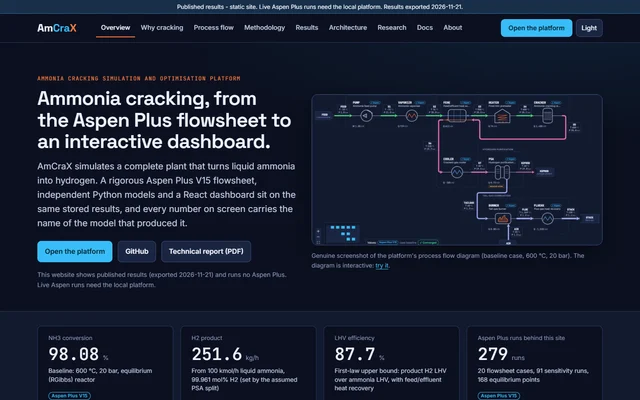
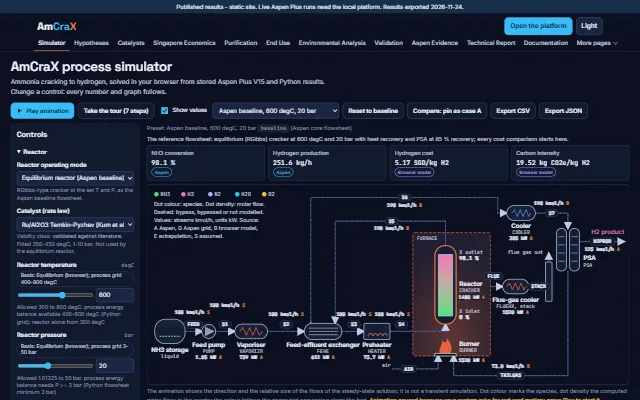
Correct project facts, licences and the AmCraX entry; add Writing to the navigation
README: drop the "Planned project ... No code yet" line for AmCraX, which
contradicted the live AmCraX section above it, and link the Writing section.

NOTICE.md and docs/CREDITS.md: STRATO is AGPL-3.0-only on main; only the
v1.0.0 and v1.0.1 releases were published under MIT. Name AmCraX among the
sources of the project figures, note the Aspen Plus window capture, and
remove the README banner and divider, which no longer exist.

AmCraX card and case study: bring them up to the public state of AmCraX main
at 70993a5 (README and live site). The public site now opens on a browser
process simulator; research costs use the unified reference scenario
(4.015 USD/kg) and 3.92 USD/kg is labelled as the legacy core result. The
four hypothesis verdicts are described only by their rule and pointed to the
evidence matrix, because they are being revised. New card image and figure:
a capture of the live simulator page taken on 24 November 2026.

Navigation: Writing becomes its own section in the top bar and footer. The
research index no longer repeats the notes; it points to Writing and keeps
the technical-notes anchor for old links.

Changed region(s): [[0.0, 0.03, 0.9688, 1.0], [0.2812, 0.0, 0.7188, 0.03]]

diff --git a/src/data/site.ts b/src/data/site.ts
@@ -37,7 +37,7 @@ export const social = {
  * `collection` names the content collection in src/content.config.ts that feeds the section, if any.
  */
 export type Section = {
-  id: 'projects' | 'research' | 'community' | 'innovation' | 'about';
+  id: 'projects' | 'research' | 'writing' | 'community' | 'innovation' | 'about';
   label: string;
   path: string;
   eyebrow: string;
@@ -64,6 +64,15 @@ export const sections: readonly Section[] = [
     title: 'Research and academic work',
     lead: 'Coursework case studies and review essays, presented with their methods, findings and limits.',
     collection: 'research',
+  },
+  {
+    id: 'writing',
+    label: 'Writing',
+    path: 'writing/',
+    eyebrow: 'Technical notes',
+    title: 'Writing',
+    lead: 'Technical notes and computational studies, grouped by topic. Each entry links to the public source it is based on.',
+    collection: null,
   },
   {
     id: 'community',
@@ -338,21 +347,21 @@ export const projects: readonly Project[] = [
     name: 'AmCraX',
     tagline: 'Ammonia cracking simulation and optimisation platform',
     description:
-      'Grows out of my CN5190 Hydrogen Energy and Technology review essay at NUS. Lecturers: Prof Wang Lei and Prof Lum Yanwei. An Aspen Plus V15 flowsheet of an ammonia cracker, driven from Python and checked by independent Python models for equilibrium, heat integration, kinetics and cost. The baseline converts 98.1% of the ammonia and makes 251.6 kg/h of hydrogen. The public site shows the published results and does not run Aspen Plus.',
+      'Grows out of my CN5190 Hydrogen Energy and Technology review essay at NUS. Lecturers: Prof Wang Lei and Prof Lum Yanwei. An Aspen Plus V15 flowsheet of an ammonia cracker, driven from Python and checked by independent Python models for equilibrium, heat integration, kinetics and cost. The baseline converts 98.1% of the ammonia and makes 251.6 kg/h of hydrogen. The public site opens on a process simulator that runs in the browser from the stored results and labels every value with its source. It does not run Aspen Plus.',
     status: 'Live site',
     stage: 'live',
     tech: ['Aspen Plus V15', 'Python', 'FastAPI', 'React', 'React Flow', 'GitHub Pages'],
     areas: ['hydrogen', 'process'],
     features: [
-      'Aspen Plus flowsheet generated and run from Python: 279 converged runs behind the published results',
+      'Aspen Plus flowsheet generated and run from Python: 279 converged runs behind the stored results',
       'Independent checks: a 137-item validation matrix that reports its 22 failures',
-      'Interactive process flow diagram and an in-browser ideal-gas equilibrium calculator',
+      'Browser process simulator: the browser port of the Python models agrees with them on 82 stored test vectors to about 1e-7',
     ],
     repoUrl: 'https://github.com/weewzr/AmCraX',
     siteUrl: 'https://weewzr.github.io/AmCraX/',
     image: 'projects/amcrax.webp',
-    imageAlt: 'Home page of the AmCraX public site with the project title and baseline results.',
-    imageCaption: 'Screenshot of the AmCraX public site.',
+    imageAlt: 'The AmCraX process simulator page: controls on the left, four labelled results and the process flow diagram of the ammonia cracker.',
+    imageCaption: 'Screenshot of the AmCraX public site, simulator page, captured on 24 November 2026.',
   },
 ] as const;
 

diff --git a/docs/CREDITS.md b/docs/CREDITS.md
@@ -22,7 +22,7 @@ The layout and mood were shaped by looking at the public portfolio templates bel
 
 ## GitHub profile README
 
-The profile page (`README.md` with `assets/readme/`) follows the structure GitHub documents for profile READMEs, in which a repository named after the account shows its README on the profile. The banner and divider graphics are original SVG files made for this repository. The only other image is the Perry artwork described above.
+The profile page (`README.md` with `assets/readme/`) follows the structure GitHub documents for profile READMEs, in which a repository named after the account shows its README on the profile. Its only image is the Perry artwork described above. The banner and divider graphics it once had were removed in the November 2026 design system change.
 
 ## Dependencies
 
@@ -52,7 +52,16 @@ The fonts are self-hosted: the built site contains their `woff2` files. The copy
 
 ## Project preview images
 
-The images in `public/projects/` are real project material and carry no invented content: a screenshot of the live KASCO app, the process flow figure from the NUS-H2 repository and the TRISO cross-section figure from the STRATO documentation. Each of those repositories is public. KASCO and STRATO are MIT-licensed, and NUS-H2 carries an MIT licence for its own work, with third-party material outside it.
+The images in `public/projects/` are real project material and carry no invented content. The card images are a screenshot of the live KASCO app, the process flow figure from the NUS-H2 repository, the TRISO cross-section figure from the STRATO documentation and a screenshot of the AmCraX public site. The folders `public/projects/<slug>/` hold further screenshots and figures from the same repositories and live sites, each captioned on its case-study page. All four repositories are public.
+
+Licences of the source repositories:
+
+| Repository | Licence |
+| --- | --- |
+| KASCO | MIT |
+| NUS-H2 | MIT for its own work, with third-party material outside it |
+| AmCraX | MIT for its own code and documents. Aspen Plus is commercial software of Aspen Technology and is not included; the Aspen Plus window capture shows the owner's flowsheet. |
+| STRATO | AGPL-3.0-only on `main`. The releases v1.0.0 and v1.0.1 were published under the MIT licence and remain available under it. |
 
 The STRATO cross-section is drawn to scale with the AGR-1 baseline particle dimensions measured by Morris et al. (2016), as the STRATO documentation states in the caption of that figure. The source is R. N. Morris, C. A. Baldwin, P. A. Demkowicz, J. D. Hunn and E. L. Reber, "Performance of AGR-1 high-temperature reactor fuel during post-irradiation heating tests", Nuclear Engineering and Design, volume 306, pages 24 to 35, <https://doi.org/10.1016/j.nucengdes.2016.04.031>. The dimensions are published data. The drawing itself comes from the STRATO repository.
 

diff --git a/README.md b/README.md
@@ -22,7 +22,7 @@ Developed from my CN5190 Hydrogen Energy and Technology review essay at NUS. A p
 
 - Automated Aspen Plus simulations with 279 converged runs, independently cross-checked against Python thermodynamic and process models.
 - Kinetic modelling of nickel- and ruthenium-based catalysts, alongside sensitivity studies of operating temperature, pressure and ammonia conversion.
-- Interactive dashboard for process visualisation, optimisation, techno-economic analysis and model validation.
+- Interactive dashboard for process visualisation, optimisation, techno-economic analysis and model validation. The public site opens on a process simulator that runs in the browser and labels every value with its source.
 
 Stack: Aspen Plus V15, Python, FastAPI, React, TypeScript, SciPy, Cantera, GitHub Pages
 
@@ -88,8 +88,8 @@ Listed without proficiency ratings. The repositories above show how each one is 
 
 ## More on the website
 
-- **Research and academic work:** [a low-carbon data centre case study for Singapore](https://weewzr.github.io/weewzr/research/cn5303-low-carbon-data-centre/) and [a review essay on ammonia cracking for hydrogen](https://weewzr.github.io/weewzr/research/cn5190-ammonia-cracking/).
-- **Planned project:** [AmCraX](https://weewzr.github.io/weewzr/projects/amcrax/), an ammonia cracking and hydrogen production simulation platform that grows out of my CN5190 Hydrogen Energy and Technology review essay at NUS (lecturers: Prof Wang Lei and Prof Lum Yanwei). No code yet.
+- **Research and academic work:** [a low-carbon data centre case study for Singapore](https://weewzr.github.io/weewzr/research/cn5303-low-carbon-data-centre/) and [a review essay on ammonia cracking for hydrogen](https://weewzr.github.io/weewzr/research/cn5190-ammonia-cracking/), the essay that AmCraX grew out of.
+- **Writing:** [technical notes](https://weewzr.github.io/weewzr/writing/) on the methods behind STRATO, NUS-H2 and KASCO.
 - **Community engagement:** [Grant A Wish XXIV](https://weewzr.github.io/weewzr/community/grant-a-wish-xxiv/), which I lead as Project Director.
 - **Innovation and competitions:** [ThickSense](https://weewzr.github.io/weewzr/innovation/thicksense/), an iDEATE 2026 semifinalist concept for checking thickened drinks.
 

diff --git a/NOTICE.md b/NOTICE.md
@@ -1,8 +1,8 @@
 # Notice: material outside the MIT licence
 
 The MIT licence in `LICENSE` covers the source code, configuration and written content of this
-repository, and the original graphics made for it (the favicon, the social card, and the README
-banner and divider). It does not cover the following.
+repository, and the original graphics made for it (the favicon and the social card). It does not
+cover the following.
 
 1. **Disney artwork.** Perry the Platypus and Phineas and Ferb are the property of Disney. The Perry
    images in `public/mascot/` (every file except the original `silhouette.svg` placeholder) and the
@@ -12,5 +12,12 @@ banner and divider). It does not cover the following.
    rights holder. Please do not copy, reuse or redistribute these files.
 2. **Third-party software and fonts.** Dependencies keep their own licences, which are listed in
    `docs/CREDITS.md`.
-3. **Project figures.** The preview images in `public/projects/` are screenshots and figures from the
-   owner's public repositories KASCO, NUSH2 and STRATO, each of which carries the MIT licence.
+3. **Project figures.** The images in `public/projects/` are screenshots and figures from the owner's
+   public repositories KASCO, NUSH2, STRATO and AmCraX, and from their live sites. They keep the
+   licence of the repository they come from:
+   - KASCO, NUSH2 and AmCraX carry the MIT licence.
+   - STRATO is licensed under AGPL-3.0-only on its `main` branch. Only its releases v1.0.0 and
+     v1.0.1 were published under the MIT licence. The STRATO figures here come from its
+     documentation.
+   - The AmCraX figures include a capture of the Aspen Plus V15 window. Aspen Plus is commercial
+     software of Aspen Technology; the capture shows the owner's own flowsheet.
